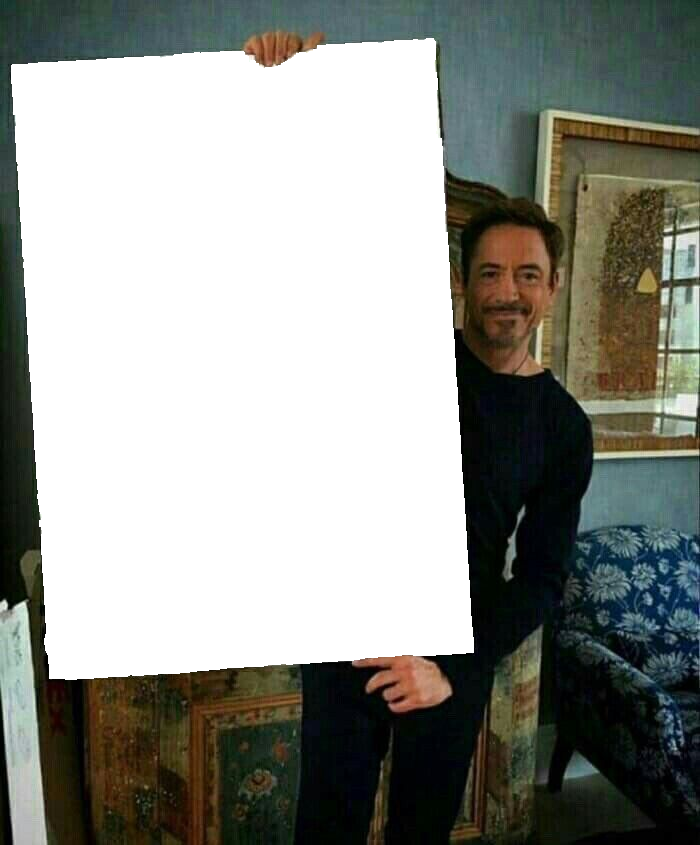
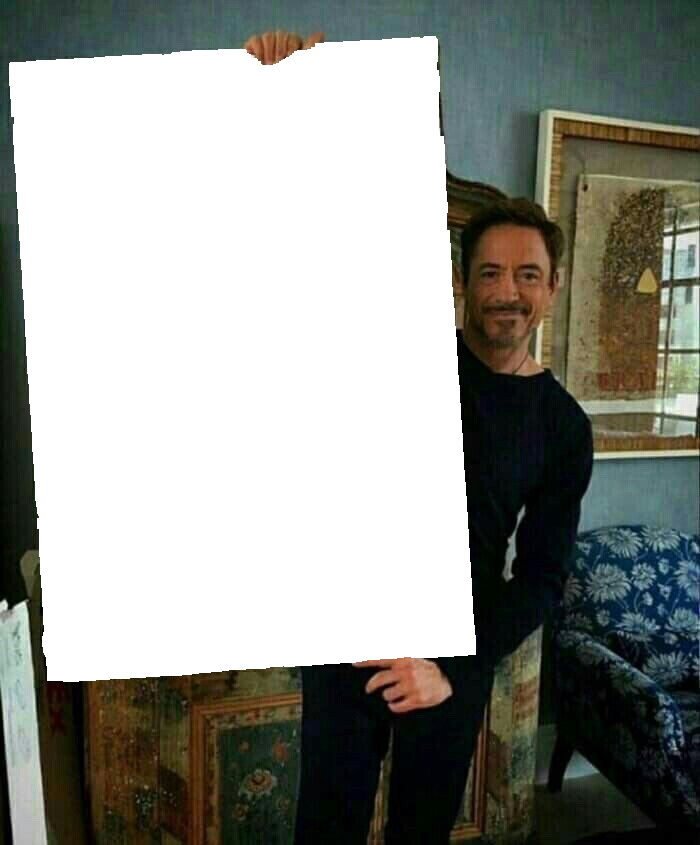
Expand the transparent area of the overlay to eliminate jagged edges
Increase mask expansion from 2 to 4 pixels in create_tony_overlay.js to remove artifacts.

Replit-Commit-Author: Agent
Replit-Commit-Session-Id: 997ea9e3-2fc8-46c9-b39a-7973084f2c2f
Replit-Commit-Checkpoint-Type: full_checkpoint
Replit-Commit-Event-Id: 751eb296-346f-4830-b1eb-ef1a5c6453aa
Replit-Commit-Screenshot-Url: https://storage.googleapis.com/screenshot-production-us-central1/05616ddc-013f-432b-a4d4-abadbf00317f/997ea9e3-2fc8-46c9-b39a-7973084f2c2f/t1BmwMC

diff --git a/create_tony_overlay.js b/create_tony_overlay.js
@@ -57,8 +57,8 @@ const path = require('path');
   for (let y = 0; y < h; y++) {
     for (let x = 0; x < w; x++) {
       if (mask[y * w + x]) {
-        for (let dy = -2; dy <= 2; dy++) {
-          for (let dx = -2; dx <= 2; dx++) {
+        for (let dy = -4; dy <= 4; dy++) {
+          for (let dx = -4; dx <= 4; dx++) {
             const nx = x + dx, ny = y + dy;
             if (nx >= 0 && ny >= 0 && nx < w && ny < h) {
               expand[ny * w + nx] = 1;
